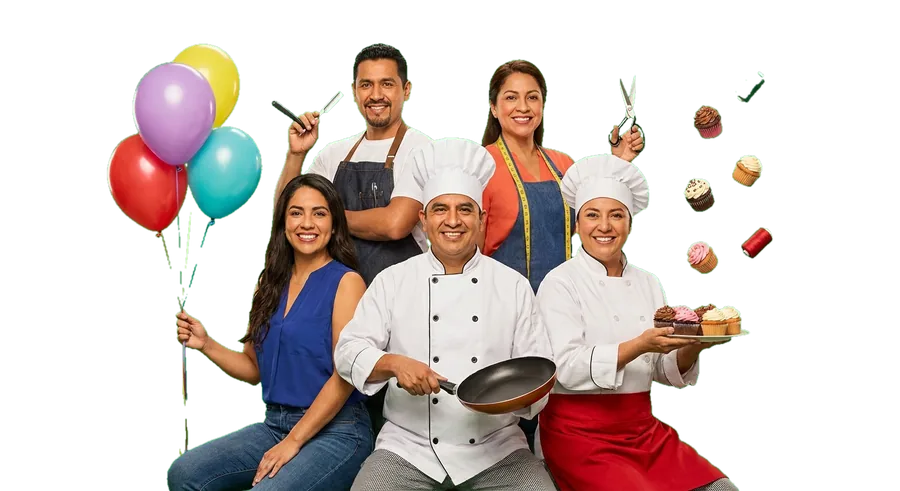
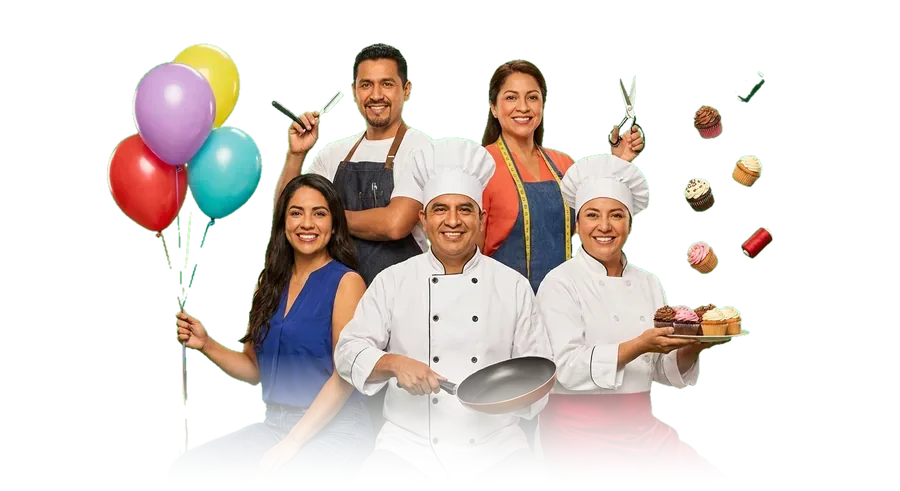
fix: difuminar los bordes cortados de los collages del hero
El generador recortaba piernas y objetos contra el marco: 6 de los 8
heroes tenían hasta 68% del borde inferior con contenido, y Chile además
19% del lateral izquierdo.

En vez de reintentar la generación —el modelo no garantiza margen— se
desvanece el alfa en los bordes que superan el 5% de ocupación, con curva
cuadrática. El desvanecido inferior es largo (28%) para disolver torsos y
piernas; los laterales cortos (10%) para objetos flotantes clipados. El
script mide antes de actuar, así que es idempotente.

Resultado: los 8 quedan por debajo del 1% de borde ocupado.

Changed region(s): [[0.1867, 0.7332, 0.84, 1.0], [0.1867, 0.7637, 0.2178, 0.8248]]

diff --git a/scripts/feather-heroes.py b/scripts/feather-heroes.py
@@ -1,0 +1,75 @@
+"""Difumina los bordes de los heroes donde el modelo cortó la composición.
+
+El generador recorta piernas y objetos contra el marco. En vez de reintentar
+hasta que salga con margen (el modelo no lo garantiza), se desvanece el alfa
+en los bordes que tienen contenido: lo cortado se funde con el fondo del hero
+en lugar de terminar en seco.
+
+Idempotente por medición: solo actúa sobre los bordes que superan el umbral.
+"""
+
+from pathlib import Path
+
+from PIL import Image
+
+UMBRAL = 5          # % de píxeles con contenido en el borde para considerarlo cortado
+FADE_ABAJO = 0.28   # el desvanecido inferior es largo: disuelve piernas/torsos
+FADE_LADOS = 0.10   # laterales y superior: cortos, para objetos flotantes clipados
+
+
+def borde_ocupado(alpha: Image.Image, lado: str) -> int:
+    w, h = alpha.size
+    if lado == 'top':
+        return sum(1 for x in range(w) if alpha.getpixel((x, 1)) > 30) * 100 // w
+    if lado == 'bottom':
+        return sum(1 for x in range(w) if alpha.getpixel((x, h - 2)) > 30) * 100 // w
+    if lado == 'left':
+        return sum(1 for y in range(h) if alpha.getpixel((1, y)) > 30) * 100 // h
+    return sum(1 for y in range(h) if alpha.getpixel((w - 2, y)) > 30) * 100 // h
+
+
+def aplicar(path: Path) -> str:
+    img = Image.open(path).convert('RGBA')
+    w, h = img.size
+    alpha = img.split()[3]
+    lados = {l: borde_ocupado(alpha, l) for l in ('top', 'bottom', 'left', 'right')}
+    afectados = [l for l, pct in lados.items() if pct > UMBRAL]
+    if not afectados:
+        return 'sin cortes'
+
+    px = alpha.load()
+    for lado in afectados:
+        span = int((h if lado in ('top', 'bottom') else w) * (FADE_ABAJO if lado == 'bottom' else FADE_LADOS))
+        if span < 2:
+            continue
+        for i in range(span):
+            # Curva suave (ease-in cuadrática): el desvanecido no tiene bordes duros
+            t = i / span
+            factor = t * t
+            if lado == 'bottom':
+                y = h - 1 - i
+                for x in range(w):
+                    px[x, y] = int(px[x, y] * factor)
+            elif lado == 'top':
+                for x in range(w):
+                    px[x, i] = int(px[x, i] * factor)
+            elif lado == 'left':
+                for y in range(h):
+                    px[i, y] = int(px[i, y] * factor)
+            else:
+                x = w - 1 - i
+                for y in range(h):
+                    px[x, y] = int(px[x, y] * factor)
+
+    img.putalpha(alpha)
+    img.save(path, 'WEBP', quality=82, method=6)
+    return 'difuminado: ' + ', '.join(f'{l} ({lados[l]}%)' for l in afectados)
+
+
+def main() -> None:
+    for f in sorted(Path('public/heroes').glob('*.webp')):
+        print(f'{f.stem}: {aplicar(f)}')
+
+
+if __name__ == '__main__':
+    main()
